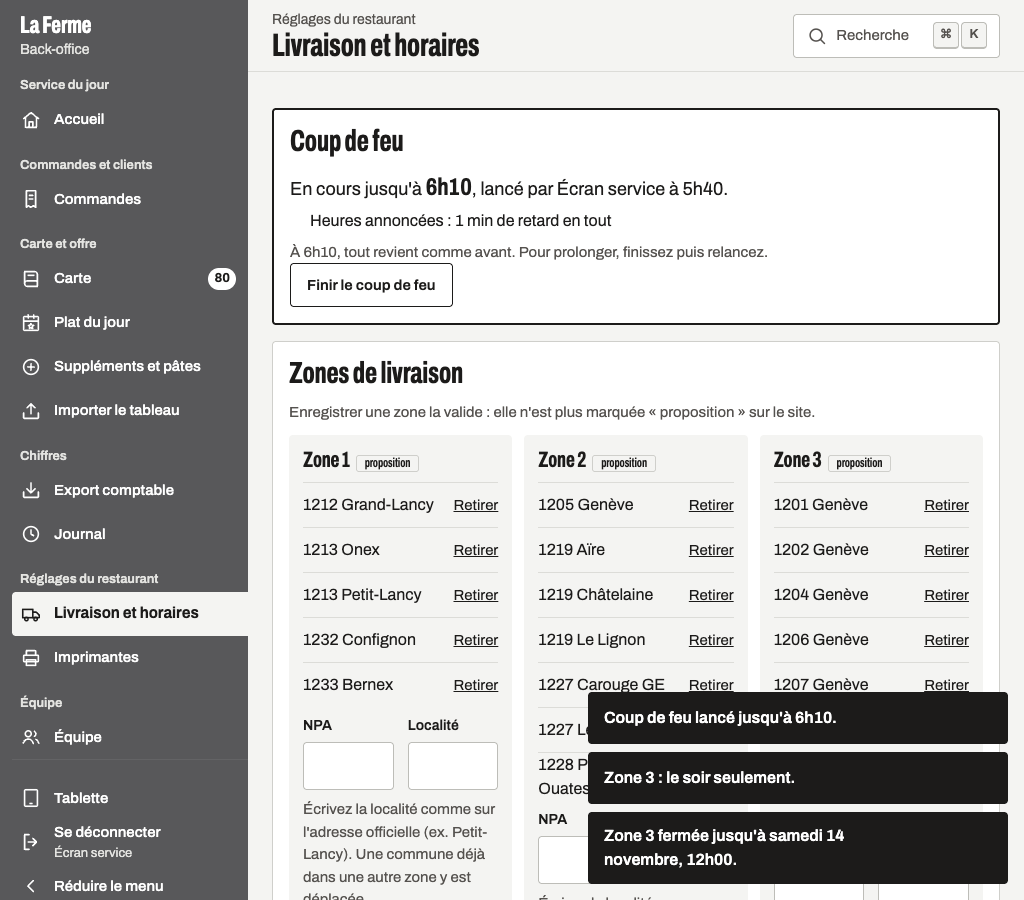
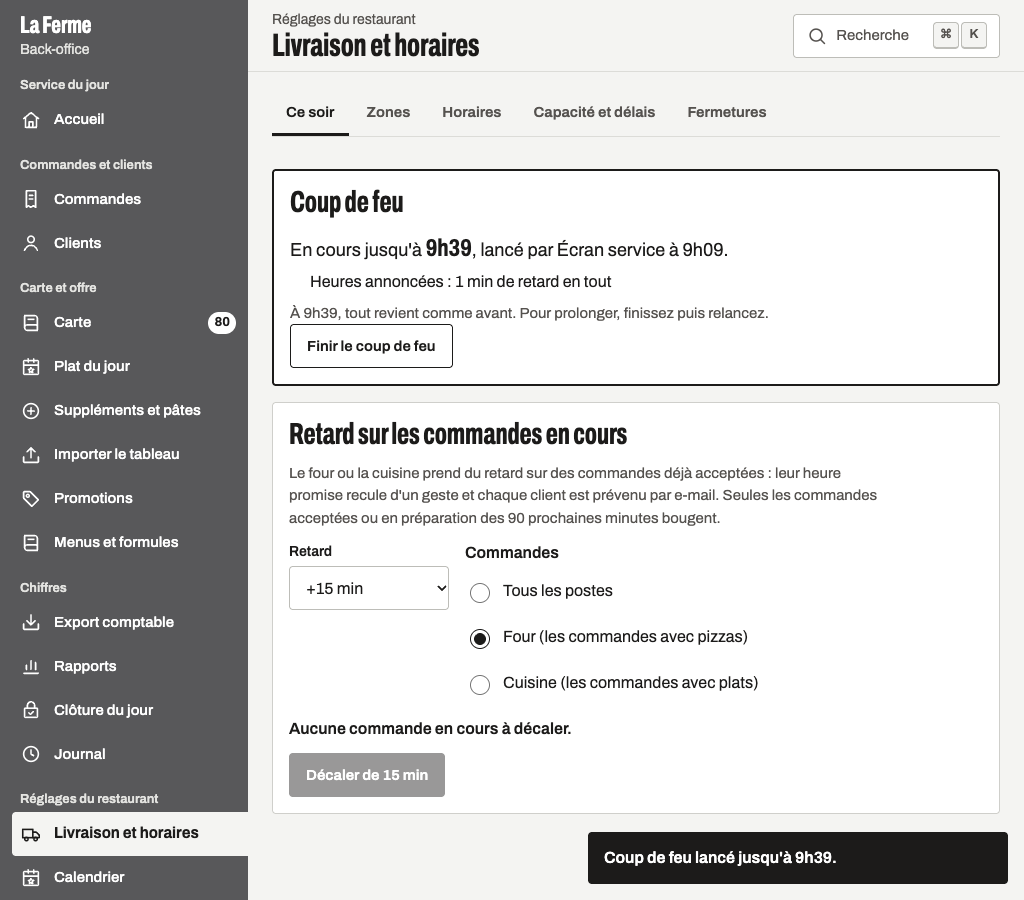
Livraison et horaires en cinq onglets, chacun avec son adresse
Ce soir (coup de feu, retard des commandes en cours), Zones (zones, tester une
adresse), Horaires, Capacité et délais, Fermetures (fermetures, ouvertures
exceptionnelles). /gestion/horaires#zones ouvre l'onglet ; le calendrier y
renvoie directement. Tests adaptés aux onglets.

diff --git a/tests/e2e/gestion-service-v3.spec.ts b/tests/e2e/gestion-service-v3.spec.ts
@@ -26,8 +26,10 @@ test("coup de feu, services d'une zone, zone fermée", async ({ page }, info) =>
   const cdf = page.locator(".bo-cdf");
   const zone3 = page.locator(".ges-zone").filter({ hasText: "Zone 3" });
   try {
-    // Retard sur les commandes en cours : aperçu seulement. Le geste décalerait les commandes des autres fichiers
-    // de tests (base commune) ; il est vérifié en base (decaler-commandes-sql) et côté serveur (decalage.test).
+    // Onglet « Ce soir » par défaut. Retard sur les commandes en cours : aperçu seulement. Le geste décalerait les
+    // commandes des autres fichiers de tests (base commune) ; il est vérifié en base (decaler-commandes-sql) et
+    // côté serveur (decalage.test).
+    await expect(page.getByRole("tab", { name: "Ce soir" })).toHaveAttribute("aria-selected", "true");
     const decaler = page.locator(".bo-decaler");
     await expect(decaler.getByRole("heading", { name: "Retard sur les commandes en cours" })).toBeVisible();
     await expect(decaler.getByRole("status")).toHaveText(/^(Aucune commande en cours à décaler\.|\d+ commandes? en cours, \d+ clients? prévenus? par e-mail\.)$/);
@@ -36,6 +38,26 @@ test("coup de feu, services d'une zone, zone fermée", async ({ page }, info) =>
     await decaler.scrollIntoViewIfNeeded();
     await page.screenshot({ path: `${CAPTURES}/horaires-decaler-1024.png` });
 
+    // Coup de feu : une minute de retard seulement, capacités inchangées.
+    await page.evaluate(() => window.scrollTo(0, 0));
+    await expect(cdf.getByRole("button", { name: "Lancer le coup de feu" })).toBeVisible();
+    await page.screenshot({ path: `${CAPTURES}/horaires-coup-de-feu-formulaire-1024.png` });
+    await cdf.getByLabel("Retard en tout (min)").fill("1");
+    await cdf.getByLabel("Livraisons par créneau, au plus").fill("");
+    await cdf.getByLabel("Retraits par créneau, au plus").fill("");
+    await cdf.getByLabel("Pendant").selectOption("30");
+    await cdf.getByRole("button", { name: "Lancer le coup de feu" }).click();
+    await page.getByRole("dialog").getByRole("button", { name: "Lancer le coup de feu" }).click();
+    await expect(cdf.getByText(/En cours jusqu'à/)).toBeVisible();
+    await expect(cdf.getByText(/retard en tout/)).toBeVisible();
+    const axe = await new AxeBuilder({ page }).include(".bo-contenu").analyze();
+    expect(axe.violations.map((v) => `${v.id} : ${v.nodes.length}`)).toEqual([]);
+    await page.evaluate(() => window.scrollTo(0, 0));
+    await page.screenshot({ path: `${CAPTURES}/horaires-coup-de-feu-1024.png` });
+
+    // Onglet « Zones », gardé dans l'adresse.
+    await page.getByRole("tab", { name: "Zones" }).click();
+    await expect(page).toHaveURL(/\/gestion\/horaires#zones$/);
     // Tester une adresse : Onex (zone 1) puis hors zone. Montants lus en base, jamais écrits ici.
     const testeur = page.locator(".bo-test-adresse");
     await testeur.getByLabel("NPA").fill("1213");
@@ -51,18 +73,6 @@ test("coup de feu, services d'une zone, zone fermée", async ({ page }, info) =>
     await testeur.getByLabel("Localité").fill("Lausanne");
     await testeur.getByRole("button", { name: "Tester" }).click();
     await expect(testeur.getByText("Hors zone")).toBeVisible();
-
-    // Coup de feu : une minute de retard seulement, capacités inchangées.
-    await expect(cdf.getByRole("button", { name: "Lancer le coup de feu" })).toBeVisible();
-    await page.screenshot({ path: `${CAPTURES}/horaires-coup-de-feu-formulaire-1024.png` });
-    await cdf.getByLabel("Retard en tout (min)").fill("1");
-    await cdf.getByLabel("Livraisons par créneau, au plus").fill("");
-    await cdf.getByLabel("Retraits par créneau, au plus").fill("");
-    await cdf.getByLabel("Pendant").selectOption("30");
-    await cdf.getByRole("button", { name: "Lancer le coup de feu" }).click();
-    await page.getByRole("dialog").getByRole("button", { name: "Lancer le coup de feu" }).click();
-    await expect(cdf.getByText(/En cours jusqu'à/)).toBeVisible();
-    await expect(cdf.getByText(/retard en tout/)).toBeVisible();
 
     // Zone 3 : le soir seulement, puis fermée jusqu'à demain midi.
     await zone3.getByRole("button", { name: "Midi" }).click();
@@ -80,15 +90,16 @@ test("coup de feu, services d'une zone, zone fermée", async ({ page }, info) =>
     await zone3.getByRole("button", { name: "Fermer jusqu'à cette heure" }).click();
     await page.getByRole("dialog").getByRole("button", { name: "Fermer Zone 3" }).click();
     await expect(zone3.getByText(/Fermée jusqu'à 12h00/)).toBeVisible();
-
-    const axe = await new AxeBuilder({ page }).include(".bo-contenu").analyze();
-    expect(axe.violations.map((v) => `${v.id} : ${v.nodes.length}`)).toEqual([]);
-    await page.evaluate(() => window.scrollTo(0, 0));
-    await page.screenshot({ path: `${CAPTURES}/horaires-coup-de-feu-1024.png` });
+    const axeZones = await new AxeBuilder({ page }).include(".bo-contenu").analyze();
+    expect(axeZones.violations.map((v) => `${v.id} : ${v.nodes.length}`)).toEqual([]);
     await zone3.locator(".bo-zone-ops").evaluate((el) => el.scrollIntoView({ block: "center" }));
     await page.screenshot({ path: `${CAPTURES}/horaires-zone-fermee-1024.png` });
-    await page.setViewportSize({ width: 375, height: 812 });
+
+    // Rechargée sur #zones : l'onglet est retrouvé. Puis téléphone, onglet « Ce soir ».
     await page.reload();
+    await expect(page.getByRole("tab", { name: "Zones" })).toHaveAttribute("aria-selected", "true");
+    await page.setViewportSize({ width: 375, height: 812 });
+    await page.goto("/gestion/horaires#soir");
     await expect(cdf.getByText(/En cours jusqu'à/)).toBeVisible();
     await page.evaluate(() => window.scrollTo(0, 0));
     await page.screenshot({ path: `${CAPTURES}/horaires-coup-de-feu-375.png` });
@@ -98,6 +109,7 @@ test("coup de feu, services d'une zone, zone fermée", async ({ page }, info) =>
     await cdf.getByRole("button", { name: "Finir le coup de feu" }).click();
     await page.getByRole("dialog").getByRole("button", { name: "Finir le coup de feu" }).click();
     await expect(cdf.getByRole("button", { name: "Lancer le coup de feu" })).toBeVisible();
+    await page.getByRole("tab", { name: "Zones" }).click();
     await zone3.getByRole("button", { name: "Rouvrir maintenant" }).click();
     await expect(zone3.getByText("Fermer cette zone pour quelques heures")).toBeVisible();
     await zone3.getByRole("button", { name: "Midi" }).click();

diff --git a/src/components/gestion/GestionService.tsx b/src/components/gestion/GestionService.tsx
@@ -2,6 +2,7 @@
 
 import { useCallback, useEffect, useId, useState } from "react";
 import { enregistrer } from "@/components/gestion/enregistrer";
+import { Onglets } from "@/components/gestion/ui";
 import { poster } from "@/lib/requete-client";
 import { jourTexte } from "@/lib/service";
 import { CoupDeFeu } from "@/components/gestion/CoupDeFeu";
@@ -53,8 +54,21 @@ const JOURS = ["", "Lundi", "Mardi", "Mercredi", "Jeudi", "Vendredi", "Samedi", 
 const chf = (c: number) => (c / 100).toFixed(2);
 const hm = (t: string) => t.slice(0, 5);
 
+// Cinq parties en onglets (produit-gestion : la page faisait 6,5 écrans). Chacune a son adresse
+// (/gestion/horaires#zones) : un lien, le rechargement et le retour arrière la retrouvent.
+const ONGLETS = [
+  { cle: "soir", titre: "Ce soir" },
+  { cle: "zones", titre: "Zones" },
+  { cle: "horaires", titre: "Horaires" },
+  { cle: "capacite", titre: "Capacité et délais" },
+  { cle: "fermetures", titre: "Fermetures" },
+] as const;
+type CleOnglet = (typeof ONGLETS)[number]["cle"];
+const ongletDe = (hash: string): CleOnglet => ONGLETS.find((o) => `#${o.cle}` === hash)?.cle ?? "soir";
+
 export function GestionService() {
   const [d, setD] = useState<Donnees | null>(null);
+  const [onglet, setOnglet] = useState<CleOnglet>("soir");
   const charger = useCallback(async () => {
     const rep = await fetch("/api/gestion/service", { cache: "no-store" });
     if (rep.ok) setD(await rep.json());
@@ -62,36 +76,67 @@ export function GestionService() {
   useEffect(() => {
     charger();
   }, [charger]);
+  useEffect(() => {
+    const lire = () => setOnglet(ongletDe(window.location.hash));
+    lire();
+    window.addEventListener("hashchange", lire);
+    return () => window.removeEventListener("hashchange", lire);
+  }, []);
+  function choisir(cle: string) {
+    const c = ongletDe(`#${cle}`);
+    setOnglet(c);
+    window.history.replaceState(null, "", `#${c}`);
+  }
   if (!d) return <p className="aide">Chargement…</p>;
   return (
     <div className="ges-service">
-      <CoupDeFeu />
-      <DecalerCommandes />
-      <section className="ges-bloc">
-        <h2>Zones de livraison</h2>
-        <p className="aide">Enregistrer une zone la valide : elle n&apos;est plus marquée « proposition » sur le site.</p>
-        <div className="ges-zones">
-          {d.zones.map((z) => (
-            <FicheZone key={z.numero} zone={z} zones={d.zones} recharger={charger} />
-          ))}
-        </div>
-      </section>
-      <TesterAdresse />
-      <section className="ges-bloc">
-        <h2>Horaires de livraison et de retrait</h2>
-        <p className="aide">Les jours absents sont fermés (dimanche et lundi). Heures de Genève.</p>
-        <div className="ges-horaires">
-          {d.horaires.map((h) => (
-            <LigneHoraire key={h.id} h={h} recharger={charger} />
-          ))}
-        </div>
-      </section>
-      <Preparation minutes={d.preparation} recharger={charger} />
-      <Capacite capacites={d.capacites} recharger={charger} />
-      <Plafond centimes={d.plafond_comptoir_centimes} recharger={charger} />
-      {d.impressionAvance && <ImpressionAvance reglage={d.impressionAvance} recharger={charger} />}
-      <Fermetures fermetures={d.fermetures} recharger={charger} />
-      <Ouvertures ouvertures={d.ouvertures ?? []} recharger={charger} />
+      <Onglets libelle="Parties de la rubrique Livraison et horaires" onglets={[...ONGLETS]} actif={onglet} onChange={choisir}>
+        {onglet === "soir" && (
+          <>
+            <CoupDeFeu />
+            <DecalerCommandes />
+          </>
+        )}
+        {onglet === "zones" && (
+          <>
+            <section className="ges-bloc">
+              <h2>Zones de livraison</h2>
+              <p className="aide">Enregistrer une zone la valide : elle n&apos;est plus marquée « proposition » sur le site.</p>
+              <div className="ges-zones">
+                {d.zones.map((z) => (
+                  <FicheZone key={z.numero} zone={z} zones={d.zones} recharger={charger} />
+                ))}
+              </div>
+            </section>
+            <TesterAdresse />
+          </>
+        )}
+        {onglet === "horaires" && (
+          <section className="ges-bloc">
+            <h2>Horaires de livraison et de retrait</h2>
+            <p className="aide">Les jours absents sont fermés (dimanche et lundi). Heures de Genève.</p>
+            <div className="ges-horaires">
+              {d.horaires.map((h) => (
+                <LigneHoraire key={h.id} h={h} recharger={charger} />
+              ))}
+            </div>
+          </section>
+        )}
+        {onglet === "capacite" && (
+          <>
+            <Preparation minutes={d.preparation} recharger={charger} />
+            <Capacite capacites={d.capacites} recharger={charger} />
+            {d.impressionAvance && <ImpressionAvance reglage={d.impressionAvance} recharger={charger} />}
+            <Plafond centimes={d.plafond_comptoir_centimes} recharger={charger} />
+          </>
+        )}
+        {onglet === "fermetures" && (
+          <>
+            <Fermetures fermetures={d.fermetures} recharger={charger} />
+            <Ouvertures ouvertures={d.ouvertures ?? []} recharger={charger} />
+          </>
+        )}
+      </Onglets>
     </div>
   );
 }

diff --git a/tests/e2e/gestion.spec.ts b/tests/e2e/gestion.spec.ts
@@ -76,10 +76,14 @@ test("l'export comptable se télécharge en CSV", async () => {
 
 test("une zone se valide, les horaires et les fermetures s'affichent", async () => {
   await rubrique(gestion, "Livraison et horaires");
+  // La rubrique est en onglets (Ce soir, Zones, Horaires, Capacité et délais, Fermetures).
+  await gestion.getByRole("tab", { name: "Zones" }).click();
   const zone = gestion.locator(".ges-zone").first();
   await zone.getByRole("button", { name: "Enregistrer la zone" }).click();
   await expect(zone.getByText("Enregistré.")).toBeVisible();
+  await gestion.getByRole("tab", { name: "Horaires" }).click();
   await expect(gestion.locator(".ges-horaire").first()).toBeVisible();
+  await gestion.getByRole("tab", { name: "Fermetures" }).click();
   await expect(gestion.getByRole("heading", { name: "Fermetures" })).toBeVisible();
 });
 
@@ -179,6 +183,7 @@ test("un membre de l'équipe s'ajoute puis se retire", async ({}, info) => {
 test("un soir se ferme, puis se rouvre par le journal", async ({}, info) => {
   const jour = info.project.name === "bureau" ? "2027-01-05" : "2027-01-12";
   await rubrique(gestion, "Livraison et horaires");
+  await gestion.getByRole("tab", { name: "Fermetures" }).click();
   const bloc = gestion.locator(".ges-bloc", { has: gestion.getByRole("heading", { name: "Fermetures" }) });
   await bloc.getByLabel("Fermer").selectOption("soir");
   await bloc.getByLabel("Le", { exact: true }).fill(jour);
@@ -193,6 +198,7 @@ test("un soir se ferme, puis se rouvre par le journal", async ({}, info) => {
   await ligne.getByRole("button", { name: "Oui, remettre l'ancienne valeur" }).click();
   await expect(gestion.getByText("Ancienne valeur remise.")).toBeVisible();
   await rubrique(gestion, "Livraison et horaires");
+  await gestion.getByRole("tab", { name: "Fermetures" }).click();
   await expect(gestion.locator(".ges-bloc", { has: gestion.getByRole("heading", { name: "Fermetures" }) })).not.toContainText(`Soirée privée ${info.project.name}`);
 });
 

diff --git a/src/components/gestion/GestionCalendrier.tsx b/src/components/gestion/GestionCalendrier.tsx
@@ -216,7 +216,7 @@ function FicheJour({ jour, passe, fermer, recharger }: { jour: Jour; passe: bool
         ) : ouverts.length === 0 ? (
           <p className="aide">
             Rien d&apos;ouvert ce jour-là. Pour ouvrir exceptionnellement ou retirer une fermeture : rubrique{" "}
-            <a href="/gestion/horaires">Livraison et horaires</a>, « Ouvertures exceptionnelles » et « Fermetures ».
+            <a href="/gestion/horaires#fermetures">Livraison et horaires, onglet « Fermetures »</a> (fermetures et ouvertures exceptionnelles).
           </p>
         ) : (
           <form onSubmit={fermerService} noValidate className="bo-cal-fermer">

diff --git a/docs/mode-emploi.md b/docs/mode-emploi.md
@@ -214,7 +214,7 @@ La carte s'ouvre en « Liste » : un plat par ligne, ce qui reste à compléter,
 
 Qui livre les sept prochains jours, absence et renfort en un geste, semaine type, livraisons de chacun : `docs/planning-livreurs.md`, « Mode d'emploi ».
 
-Coup de feu (en tête de la rubrique), retard sur les commandes en cours, zones livrées le soir seulement ou fermées pour quelques heures ainsi que « Tester une adresse » : `docs/coup-de-feu.md`, `docs/decaler-commandes.md` et `docs/zones-services.md`.
+La rubrique a cinq onglets, chacun avec son adresse (`/gestion/horaires#zones`) : Ce soir, Zones, Horaires, Capacité et délais, Fermetures. Coup de feu et retard sur les commandes en cours (onglet Ce soir), zones livrées le soir seulement ou fermées pour quelques heures ainsi que « Tester une adresse » : `docs/coup-de-feu.md`, `docs/decaler-commandes.md` et `docs/zones-services.md`.
 
 ### Messages aux clients
 
